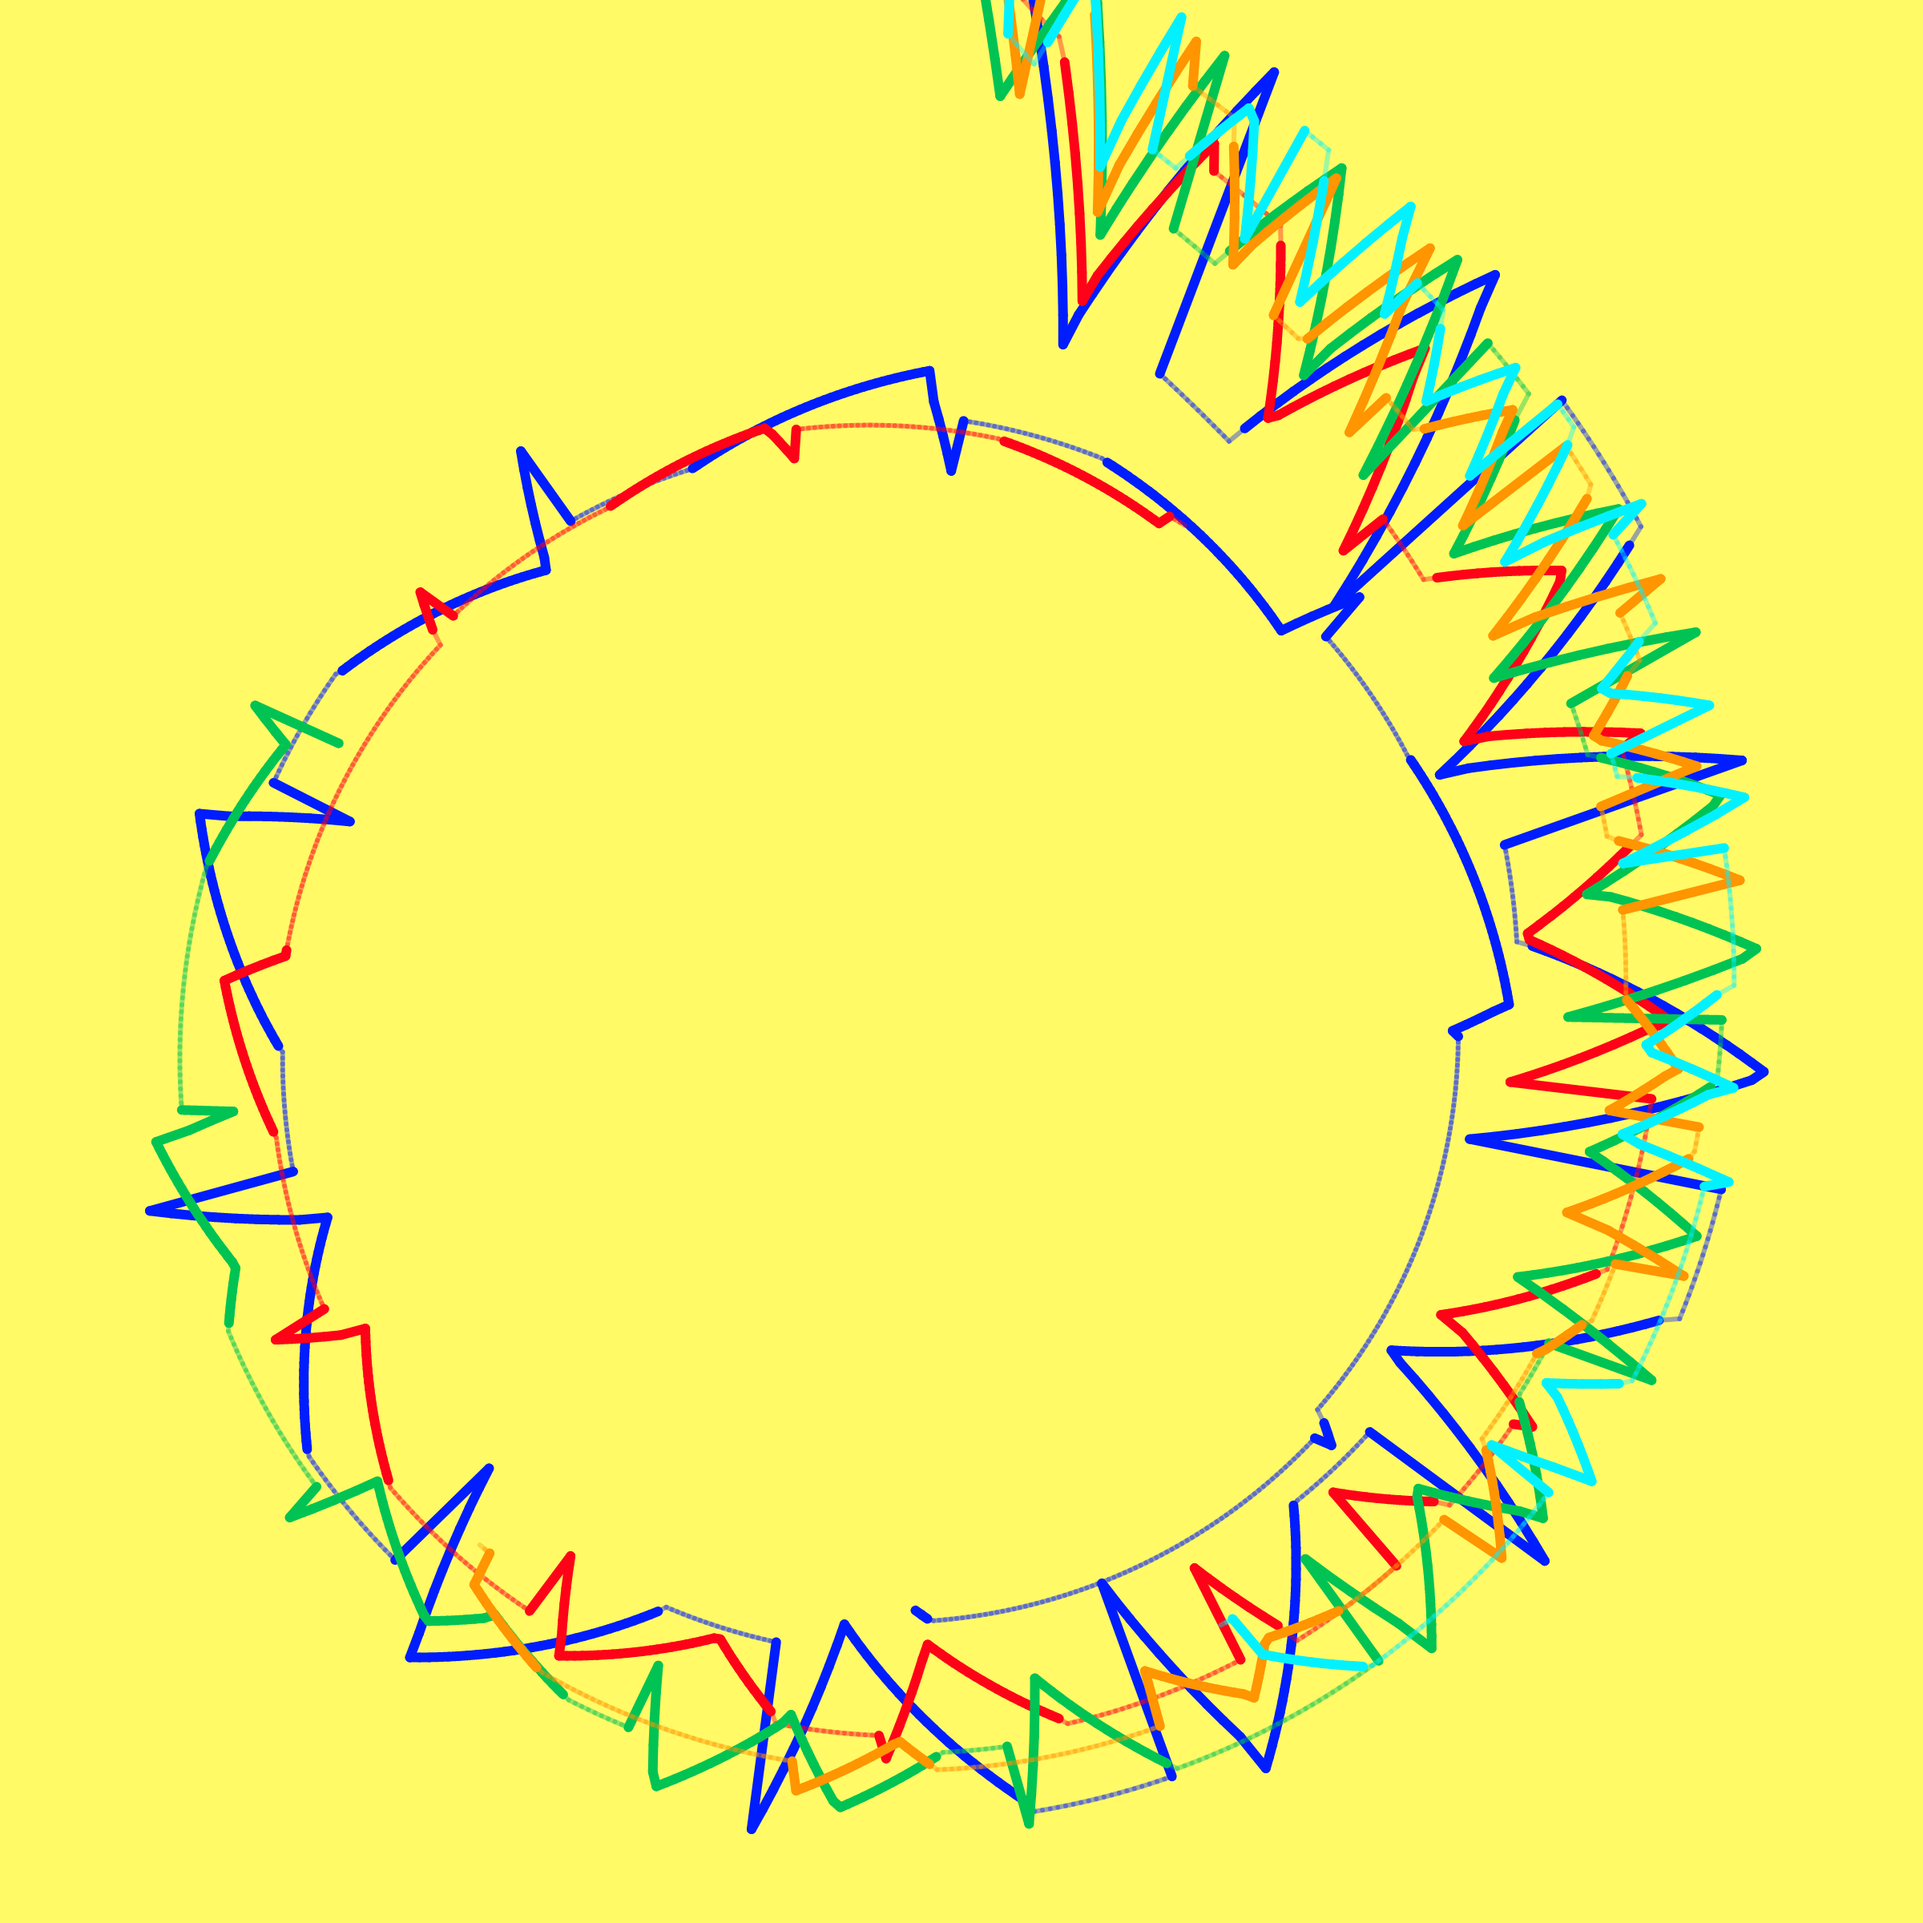
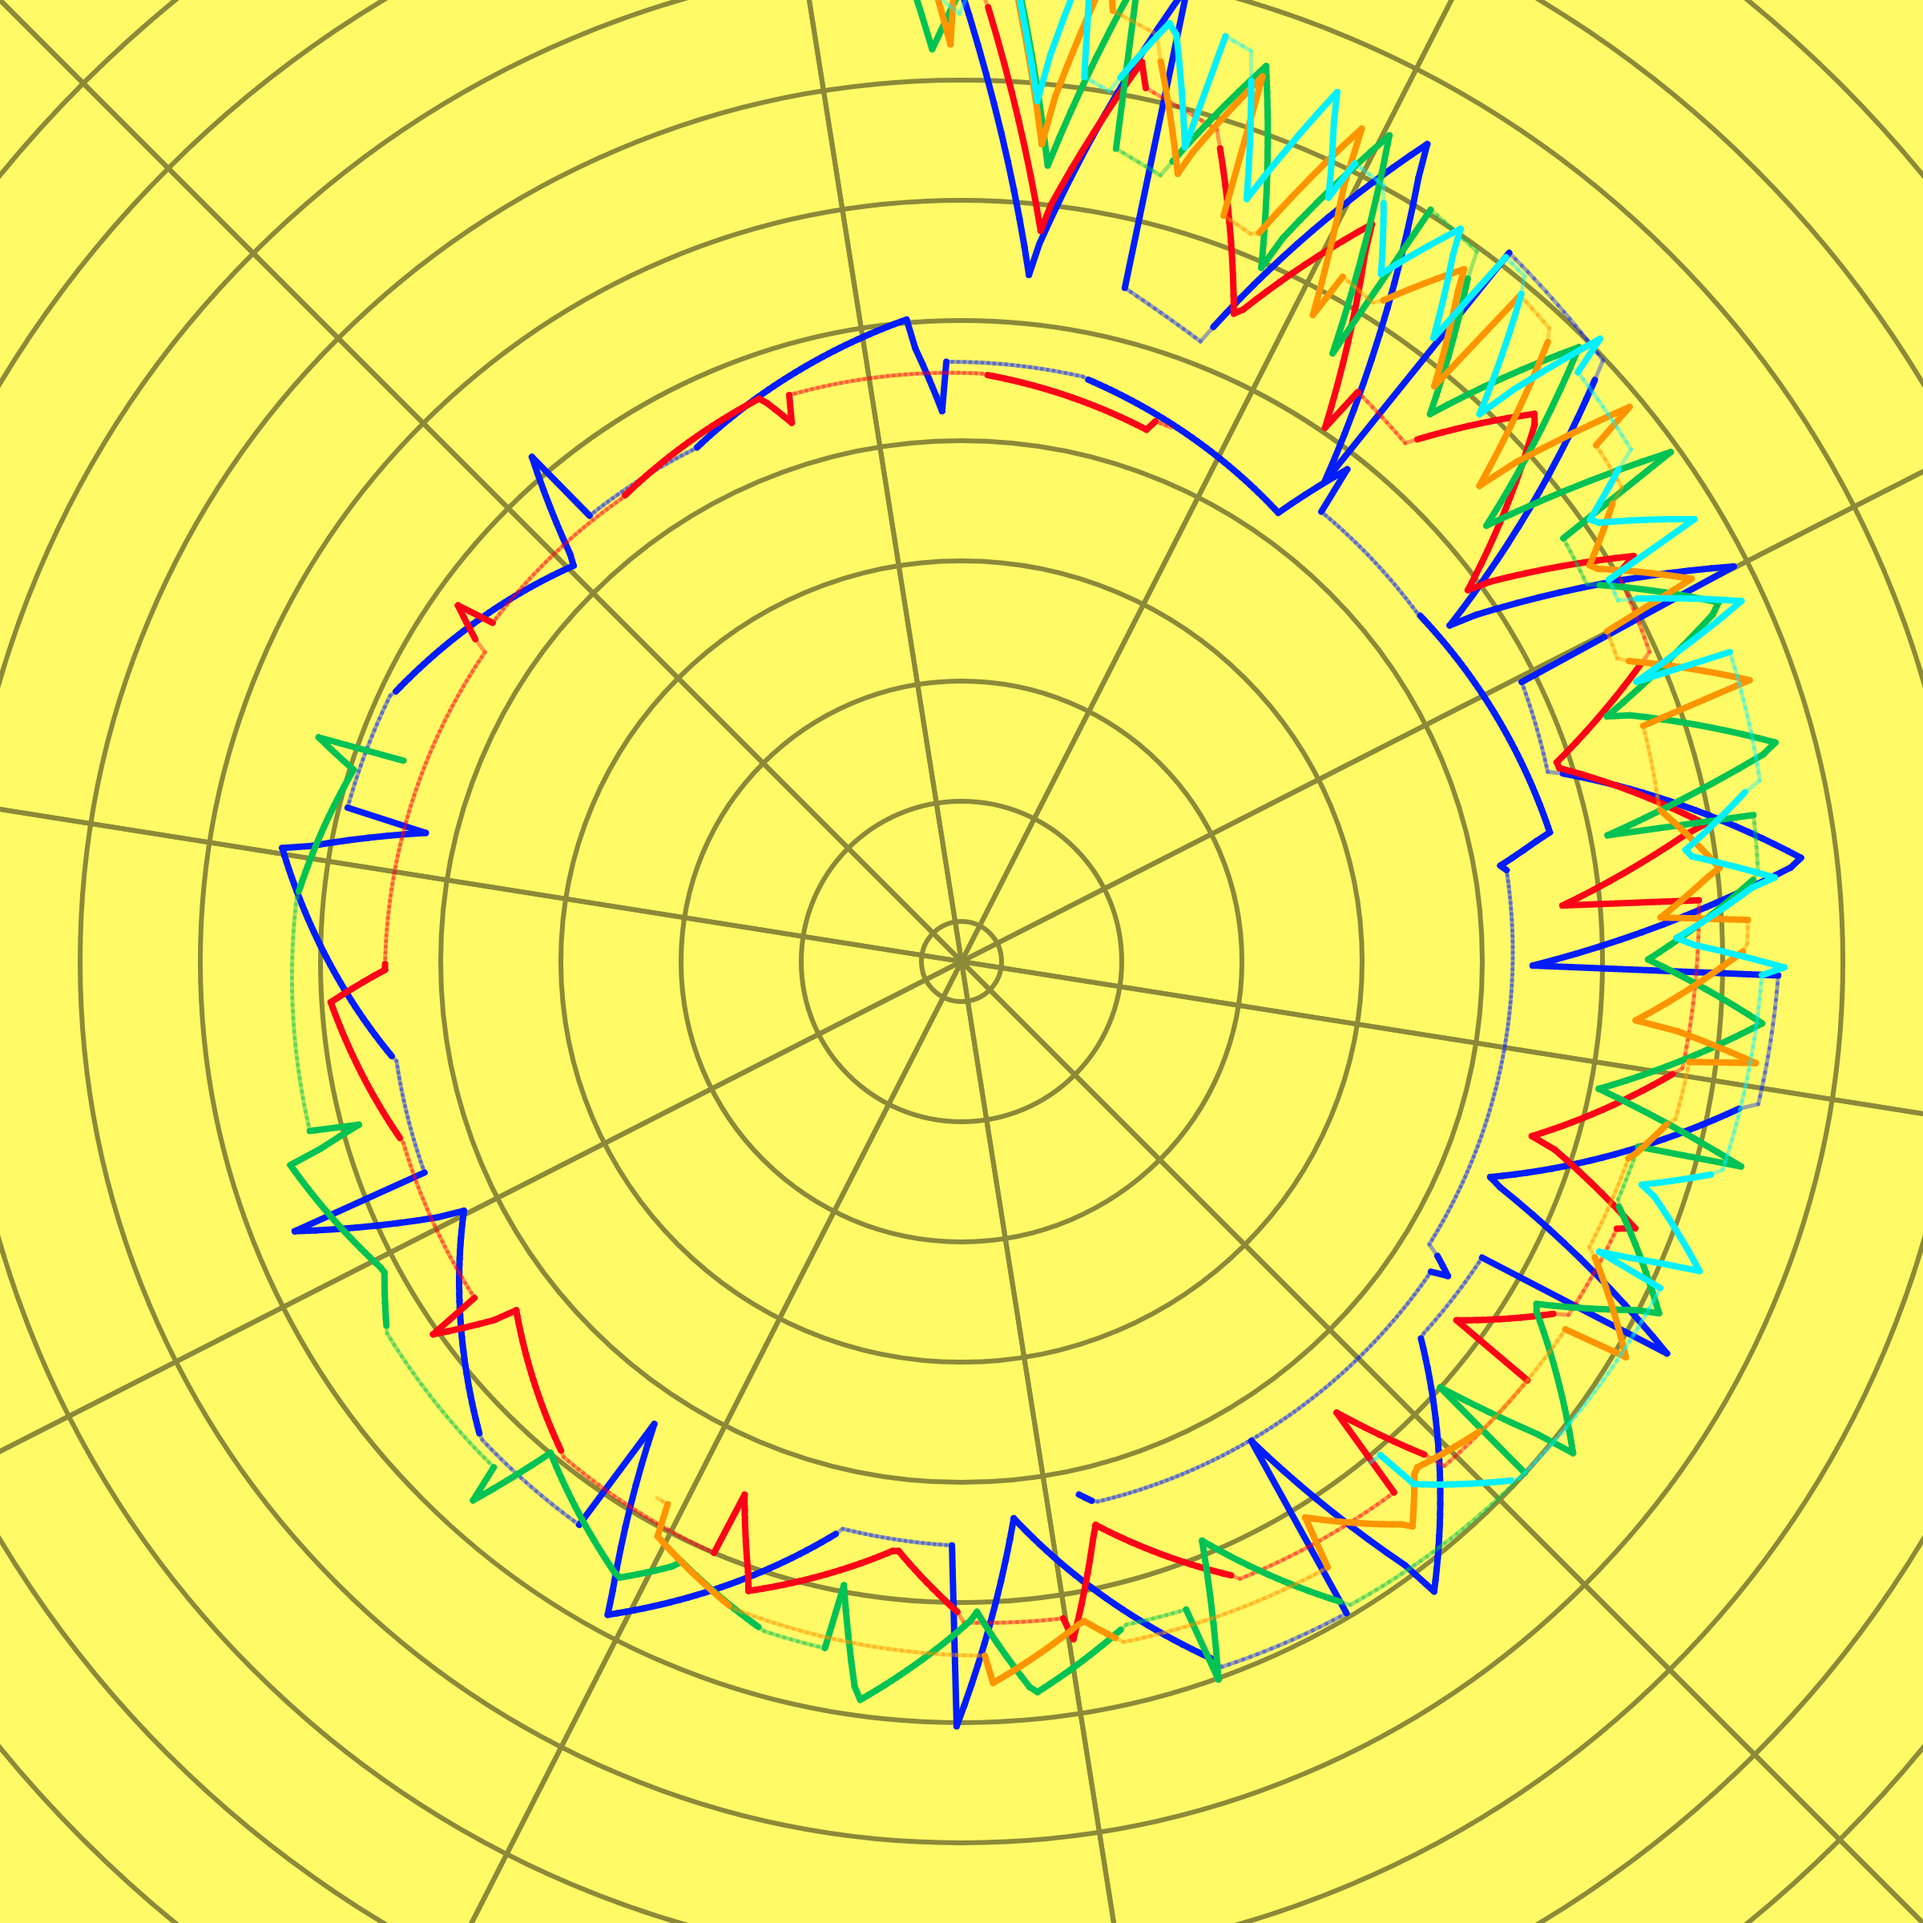
add grid

diff --git a/docs/script.js b/docs/script.js
@@ -40,7 +40,17 @@ let controls = initControls(camera);
 //let controls = getControls(camera, renderer);
 let rayc = new THREE.Raycaster();
 //add emissive dictionary for dynamics
+
 let mouse = new THREE.Vector2();
+
+
+let dataText = {["end1"] : "Cylinder front: representation of part 1 as a contrast to part 2\nChronological direction: clockwise\nBright yellow background color: represents a loud texture and the single fundamental C and its partials, which is the harmonic foundation for part 1. \nFive colored strands: representing the five voices of the polyphonic structure. blue=voice 1, red=voice 2 [etc]\n“Range filter”. The development of the melodic ranges of each voice are depicted in the movement of the lines, with pitch height ascending from the center towards the periphery.\n“Microtonal filter” [to be created] \nRank weeds. Weed-like designs in the surface structure (following voice chronology????)", 
+    ["end2"] : "end2",
+    ["spr1"] : "spr1",
+    ["spr2"] : "spr2",
+    ["cyl"] : "cyl"
+};
+
 
 let emisDict = {"nient": 0xbababa, "pppp": 0xa6a6a6, "ppp": 0x8f8f8f,
                 "pp": 0x7d7d7d, "p": 0x707070, "mp": 0x5e5e5e,
@@ -358,7 +368,7 @@ function makeTube(cylRad, depth, zPos) {
     p2endLoader.setCrossOrigin('*').load(p2endPath,
         function (img) {
             let texture = new THREE.CanvasTexture(img);
-            let mat = new THREE.MeshPhongMaterial({color:0xffffff, map: texture, transparent: true, opacity: 0.75});
+            let mat = new THREE.MeshPhongMaterial({color:0xffffff, map: texture, transparent: true, opacity: 0.75, shininess:  1, reflectivity: 0.1});
             mat.side = THREE.DoubleSide;
             makeRing(cylRad, cylRad+cylRadThick, -depth/2 + zPos, mat, 1);
         });
@@ -441,19 +451,19 @@ function getScene() {
     scene.add(light2);
 
     let light3 = new THREE.PointLight(0xf0f0f0, 1, 0, 1);
-    light3.position.set(5000, 0,0);
+    light3.position.set(5000, 0,spiralZpos + zOff+ (3000*overallScale*lenMult));
     scene.add(light3);
     
     let light4 = new THREE.PointLight(0xf0f0f0, 1, 0, 1);
-    light4.position.set(-5000, 0,0);
+    light4.position.set(-5000, 0,spiralZpos + zOff+ (3000*overallScale*lenMult));
     scene.add(light4);
 
     let light5 = new THREE.PointLight(0xf0f0f0, 1, 0, 1);
-    light5.position.set(0,5000,0);
+    light5.position.set(0,5000,spiralZpos + zOff+ (3000*overallScale*lenMult));
     scene.add(light5);
     
     let light6 = new THREE.PointLight(0xf0f0f0, 1, 0, 1);
-    light6.position.set(0,-5000,0);
+    light6.position.set(0,-5000,spiralZpos + zOff+ (3000*overallScale*lenMult));
     scene.add(light6);
 
     let ambientLight = new THREE.AmbientLight(0x101010);
@@ -530,8 +540,9 @@ function animate()
         let intersected = intersects[0].object;
         if(intersected != lastIntersect) {
             let curName = intersected.dataName;
+            let curText = dataText[curName]
             let infobox = document.getElementById("infobox");
-            infobox.innerHTML = curName;
+            infobox.innerHTML = curText;
         };
         lastIntersect = intersected;
     };

diff --git a/p5js/sketch.js b/p5js/sketch.js
@@ -1,21 +1,27 @@
 let cw = 2400
 let ch = 2400;
+let sprRot = Math.PI*(1.45);
+//let cw = 800, ch = 800;
 let transpAlpha = 100.0;
 let part1Len = data[0]["total_len"];
 let div = 100.0;
 let n = -0.125;
-let normSW = 12;
-let yDisp = 100;
-let xDisp = -100;
-let transpSW = 6;
-let radMult = 950;
+let normSW = 8;
+//let yDisp = 100, xDisp = -100;
+let yDisp = 0, xDisp = 0;
+let transpSW = 5;
+let radMult = 910;
 let lenMult = 0.025;
 let rangeScl = 0.0075;
+let comp = 1;
 //let clr1 = [252, 186,3];
 let clr1 = [255, 250,102];
 let colorArray = ["#001DFF", "#FE0218", "#00c354", "#ff9500", "#03F1FE"];
 let cPitch = stringToMidi("ef4");
-
+let circleSpacing = 300;
+let startDiam = 100;
+let numLines = 10;
+let gridClrMult = 0.55, gridWt = 6;
 function hexToRgb(hex) {
   var result = /^#?([a-f\d]{2})([a-f\d]{2})([a-f\d]{2})$/i.exec(hex);
   return result ? {
@@ -30,28 +36,40 @@ function polarToCart(radius, theta) {
 } 
 
 
-
 function preload()
 {
 
     //noStroke();
 }
 
+function drawGrid() {
+    noFill();
+    stroke(clr1[0]*gridClrMult, clr1[1]*gridClrMult, clr1[2]*gridClrMult);
+    strokeWeight(gridWt);
+    for(let i =startDiam; (i < (1.5*cw) && i < (1.5*ch)); i += circleSpacing) {
+        circle(0,0,i);
+    };
+    for(let i=0; i <numLines; i++) {
+        line(-cw,-ch,cw,ch);
+        rotate(Math.PI/(0.5*numLines));
+    };
+}
 function setup()
 {
     //console.log("bob");
     frameRate(24);
     createCanvas(cw,ch);
-    console.log(data[0]);
+    //console.log(data[0]);
     translate(xDisp,yDisp);
-    drawSpirals();   
+    translate(cw/2, ch/2);
+    background(clr1[0], clr1[1], clr1[2]);
+    drawGrid();
+    drawSpirals();
 }
 
 function drawSpirals() {
-     background(clr1[0], clr1[1], clr1[2]);
     // background(255);
-    translate(cw/2, ch/2);
-    rotate(3*PI/2);
+    rotate(sprRot);
     for(let i = 0; i < data.length; i++) {
         makeSpiral(n, div, lenMult, radMult, data[i], colorArray[i]);
     };
@@ -97,7 +115,7 @@ function makeSpiral(_n, _div, _lenmult, _radmult, curData, curColor) {
     let lastDisp = [0,0,0], eltDisp = [0,0,0];
     let drawRange = false;
     let curRgb = hexToRgb(curColor);
-    console.log(curRgb);
+    //console.log(curRgb);
     for(let i=0; i < totalLen; i += (1.0/div)) {
         let letDraw = i >= curOffset;
         if(letDraw && i >= (dataLen + curDataLoc) && dataIdx < dataPts.length - 1){
@@ -162,10 +180,17 @@ function makeSpiral(_n, _div, _lenmult, _radmult, curData, curColor) {
 
 }
 
+function avger(pt) {
+    if(!isNaN(pt[0]) && !isNaN(pt[1])) {
+        npts += 1;
+        xAvg += comp*pt[0];
+        yAvg += comp*pt[1];
+        //console.log(xAvg, yAvg, npts);
+    };
+}
+
 function draw()
 {
-    
-     
 }
 
 function mousePressed()
@@ -177,5 +202,7 @@ function windowResized()
     resizeCanvas(windowWidth, windowHeight);
     cw = windowWidth;
     ch = windowHeight;
+    background(clr1[0], clr1[1], clr1[2]);
     drawSpirals();
+    drawGrid();
 }

diff --git a/docs/main.css b/docs/main.css
@@ -7,5 +7,6 @@
     text-align: right;
     font-family: Verdana, sans-serif;
     color: white;
-    width: 100%;
+    width: 25%;
+    left:75%;
 }
